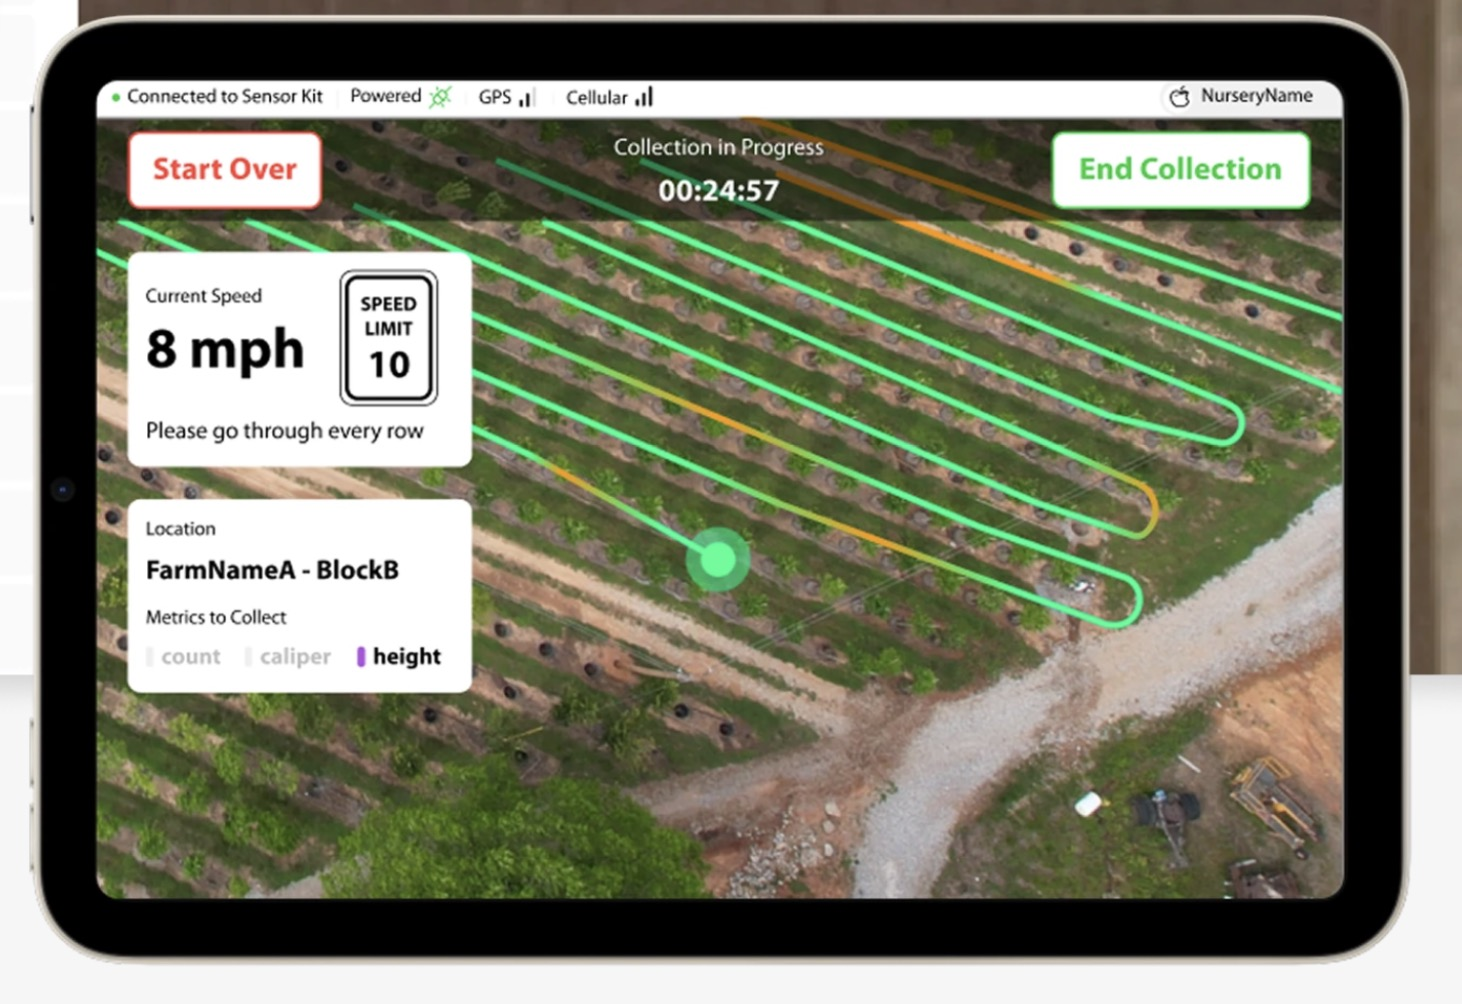
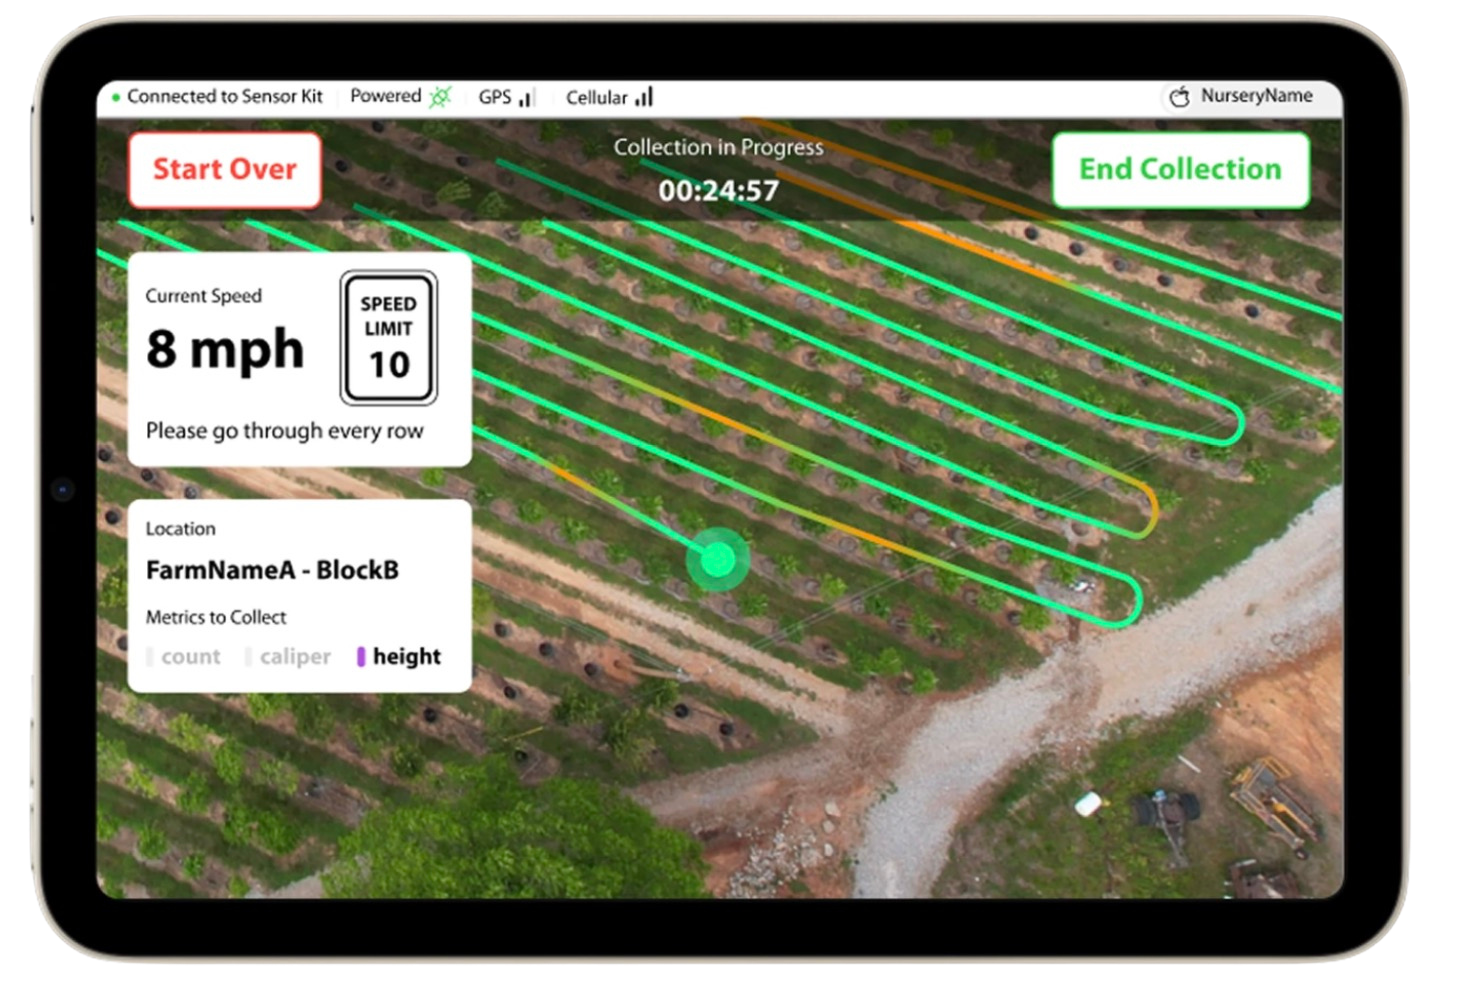
farm app: shrink field photos, fix tablet-candidates path, update tablet image

diff --git a/src/routes/work_.farm-app.tsx b/src/routes/work_.farm-app.tsx
@@ -85,12 +85,12 @@ function FarmAppPage() {
               </p>
             </div>
           </div>
-          <div className="mt-12 grid gap-6 md:grid-cols-2">
-            <div>
+          <div className="mt-12 flex flex-wrap justify-center gap-6">
+            <div className="w-full max-w-[340px]">
               <img src="/moss-atv-rows.jpg" alt="ATV in tree rows at Oregon farm" className="w-full aspect-[4/3] object-cover" />
               <p className="mt-2 text-xs uppercase tracking-[0.18em] text-foreground">ATV and farming equipment, Oregon farm rows</p>
             </div>
-            <div>
+            <div className="w-full max-w-[340px]">
               <img src="/moss-caliper.jpg" alt="Manual caliper measurement in the field" className="w-full aspect-[4/3] object-cover" />
               <p className="mt-2 text-xs uppercase tracking-[0.18em] text-foreground">Manual caliper measurement: the process being replaced</p>
             </div>
@@ -180,7 +180,7 @@ function FarmAppPage() {
           </div>
           <div className="mt-12">
             <img
-              src="/moss-tablet-candidates.jpg"
+              src="/tablet-candidates.jpg"
               alt="Tablet candidates evaluated for field use"
               className="w-full max-w-[500px] mx-auto block"
             />